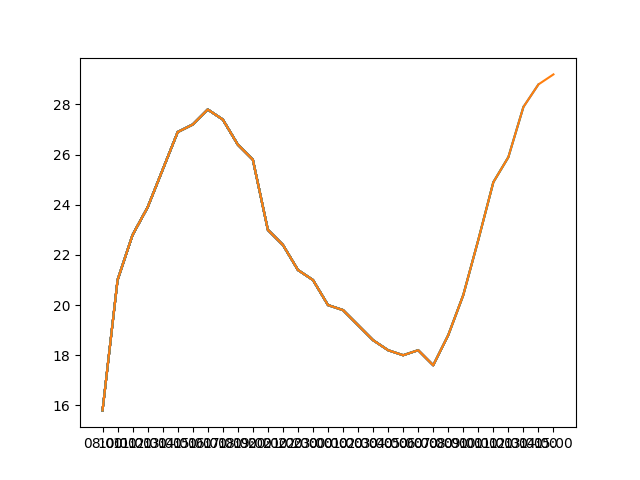
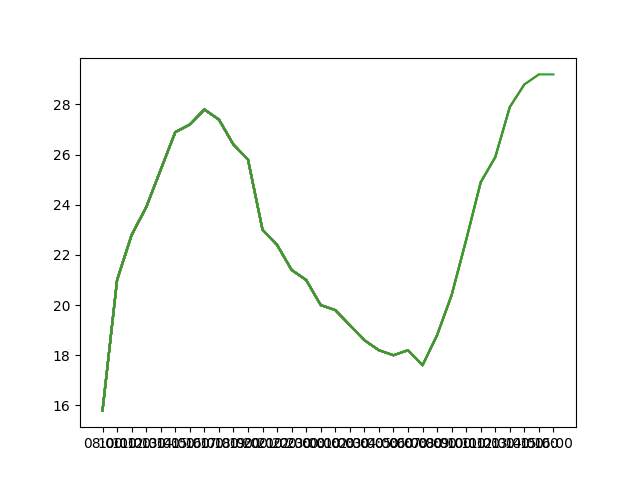
'updated'

diff --git a/index.html b/index.html
@@ -1,2 +1,2 @@
 <img src='graph.png'> 
-<table border="1"><tr><th>data</th><td><table border="1"><thead><tr><th>date</th><th>hour</th><th>weather</th><th>visibility</th><th>temp</th><th>unk</th><th>humidity</th><th>wind</th><th>pressure</th></tr></thead><tbody><tr><td>03-Abril-2021</td><td>08:00</td><td>Algo nublado con banco delgado de niebla</td><td>8 km</td><td>15.8</td><td>No se calcula</td><td>92.0</td><td>Sur  3</td><td>1014.5</td></tr><tr><td>03-Abril-2021</td><td>10:00</td><td>Despejado</td><td>15 km</td><td>21.0</td><td>No se calcula</td><td>71.0</td><td>Noreste  11</td><td>1014.8</td></tr><tr><td>03-Abril-2021</td><td>11:00</td><td>Despejado</td><td>15 km</td><td>22.8</td><td>No se calcula</td><td>66.0</td><td>Este  5</td><td>1014.6</td></tr><tr><td>03-Abril-2021</td><td>12:00</td><td>Algo nublado</td><td>15 km</td><td>23.9</td><td>No se calcula</td><td>61.0</td><td>Noreste  7</td><td>1014.2</td></tr><tr><td>03-Abril-2021</td><td>13:00</td><td>Algo nublado</td><td>15 km</td><td>25.4</td><td>No se calcula</td><td>55.0</td><td>Este  5</td><td>1013.6</td></tr><tr><td>03-Abril-2021</td><td>14:00</td><td>Algo nublado</td><td>15 km</td><td>26.9</td><td>27.3</td><td>49.0</td><td>Noreste  5</td><td>1012.8</td></tr><tr><td>03-Abril-2021</td><td>15:00</td><td>Algo nublado</td><td>15 km</td><td>27.2</td><td>26.4</td><td>42.0</td><td>Noreste  13</td><td>1012.0</td></tr><tr><td>03-Abril-2021</td><td>16:00</td><td>Algo nublado</td><td>15 km</td><td>27.8</td><td>No se calcula</td><td>36.0</td><td>Sudeste  9</td><td>1011.4</td></tr><tr><td>03-Abril-2021</td><td>17:00</td><td>Algo nublado</td><td>15 km</td><td>27.4</td><td>No se calcula</td><td>38.0</td><td>Este  7</td><td>1011.3</td></tr><tr><td>03-Abril-2021</td><td>18:00</td><td>Despejado</td><td>15 km</td><td>26.4</td><td>No se calcula</td><td>39.0</td><td>Sur  9</td><td>1011.3</td></tr><tr><td>03-Abril-2021</td><td>19:00</td><td>Despejado</td><td>15 km</td><td>25.8</td><td>No se calcula</td><td>43.0</td><td>Calma</td><td>1011.4</td></tr><tr><td>03-Abril-2021</td><td>20:00</td><td>Despejado</td><td>15 km</td><td>23.0</td><td>No se calcula</td><td>58.0</td><td>Sur  5</td><td>1011.8</td></tr><tr><td>03-Abril-2021</td><td>21:00</td><td>Algo nublado</td><td>15 km</td><td>22.4</td><td>No se calcula</td><td>62.0</td><td>Sur  7</td><td>1012.2</td></tr><tr><td>03-Abril-2021</td><td>22:00</td><td>Algo nublado</td><td>15 km</td><td>21.4</td><td>No se calcula</td><td>68.0</td><td>Calma</td><td>1012.8</td></tr><tr><td>03-Abril-2021</td><td>23:00</td><td>Despejado</td><td>15 km</td><td>21.0</td><td>No se calcula</td><td>73.0</td><td>Calma</td><td>1012.8</td></tr><tr><td>04-Abril-2021</td><td>00:00</td><td>Despejado</td><td>15 km</td><td>20.0</td><td>No se calcula</td><td>77.0</td><td>Sudeste  5</td><td>1012.6</td></tr><tr><td>04-Abril-2021</td><td>01:00</td><td>Algo nublado</td><td>15 km</td><td>19.8</td><td>No se calcula</td><td>76.0</td><td>Calma</td><td>1012.4</td></tr><tr><td>04-Abril-2021</td><td>02:00</td><td>Despejado</td><td>15 km</td><td>19.2</td><td>No se calcula</td><td>75.0</td><td>Calma</td><td>1012.1</td></tr><tr><td>04-Abril-2021</td><td>03:00</td><td>Algo nublado</td><td>15 km</td><td>18.6</td><td>No se calcula</td><td>82.0</td><td>Noreste  9</td><td>1012.0</td></tr><tr><td>04-Abril-2021</td><td>04:00</td><td>Algo nublado</td><td>15 km</td><td>18.2</td><td>No se calcula</td><td>83.0</td><td>Calma</td><td>1012.0</td></tr><tr><td>04-Abril-2021</td><td>05:00</td><td>Algo nublado</td><td>15 km</td><td>18.0</td><td>No se calcula</td><td>89.0</td><td>Calma</td><td>1011.8</td></tr><tr><td>04-Abril-2021</td><td>06:00</td><td>Algo nublado</td><td>15 km</td><td>18.2</td><td>No se calcula</td><td>91.0</td><td>Calma</td><td>1012.0</td></tr><tr><td>04-Abril-2021</td><td>07:00</td><td>Algo nublado</td><td>15 km</td><td>17.6</td><td>No se calcula</td><td>93.0</td><td>Sudeste  5</td><td>1012.6</td></tr><tr><td>04-Abril-2021</td><td>08:00</td><td>Algo nublado</td><td>15 km</td><td>18.8</td><td>No se calcula</td><td>90.0</td><td>Calma</td><td>1012.8</td></tr><tr><td>04-Abril-2021</td><td>09:00</td><td>Algo nublado</td><td>15 km</td><td>20.4</td><td>No se calcula</td><td>83.0</td><td>Este  9</td><td>1013.2</td></tr><tr><td>04-Abril-2021</td><td>10:00</td><td>Algo nublado</td><td>15 km</td><td>22.6</td><td>No se calcula</td><td>74.0</td><td>Noreste  11</td><td>1013.2</td></tr><tr><td>04-Abril-2021</td><td>11:00</td><td>Algo nublado</td><td>15 km</td><td>24.9</td><td>No se calcula</td><td>66.0</td><td>Noreste  13</td><td>1012.9</td></tr><tr><td>04-Abril-2021</td><td>12:00</td><td>Algo nublado</td><td>15 km</td><td>25.9</td><td>No se calcula</td><td>62.0</td><td>Noreste  13</td><td>1012.5</td></tr><tr><td>04-Abril-2021</td><td>13:00</td><td>Algo nublado</td><td>15 km</td><td>27.9</td><td>28.6</td><td>52.0</td><td>Este  9</td><td>1011.0</td></tr><tr><td>04-Abril-2021</td><td>14:00</td><td>Algo nublado</td><td>15 km</td><td>28.8</td><td>28.5</td><td>45.0</td><td>Noreste  13</td><td>1009.8</td></tr><tr><td>04-Abril-2021</td><td>15:00</td><td>Algo nublado</td><td>15 km</td><td>29.2</td><td>28.9</td><td>44.0</td><td>Noreste  14</td><td>1009.3</td></tr></tbody></table></td></tr></table>
+<table border="1"><tr><th>data</th><td><table border="1"><thead><tr><th>date</th><th>hour</th><th>weather</th><th>visibility</th><th>temp</th><th>unk</th><th>humidity</th><th>wind</th><th>pressure</th></tr></thead><tbody><tr><td>03-Abril-2021</td><td>08:00</td><td>Algo nublado con banco delgado de niebla</td><td>8 km</td><td>15.8</td><td>No se calcula</td><td>92.0</td><td>Sur  3</td><td>1014.5</td></tr><tr><td>03-Abril-2021</td><td>10:00</td><td>Despejado</td><td>15 km</td><td>21.0</td><td>No se calcula</td><td>71.0</td><td>Noreste  11</td><td>1014.8</td></tr><tr><td>03-Abril-2021</td><td>11:00</td><td>Despejado</td><td>15 km</td><td>22.8</td><td>No se calcula</td><td>66.0</td><td>Este  5</td><td>1014.6</td></tr><tr><td>03-Abril-2021</td><td>12:00</td><td>Algo nublado</td><td>15 km</td><td>23.9</td><td>No se calcula</td><td>61.0</td><td>Noreste  7</td><td>1014.2</td></tr><tr><td>03-Abril-2021</td><td>13:00</td><td>Algo nublado</td><td>15 km</td><td>25.4</td><td>No se calcula</td><td>55.0</td><td>Este  5</td><td>1013.6</td></tr><tr><td>03-Abril-2021</td><td>14:00</td><td>Algo nublado</td><td>15 km</td><td>26.9</td><td>27.3</td><td>49.0</td><td>Noreste  5</td><td>1012.8</td></tr><tr><td>03-Abril-2021</td><td>15:00</td><td>Algo nublado</td><td>15 km</td><td>27.2</td><td>26.4</td><td>42.0</td><td>Noreste  13</td><td>1012.0</td></tr><tr><td>03-Abril-2021</td><td>16:00</td><td>Algo nublado</td><td>15 km</td><td>27.8</td><td>No se calcula</td><td>36.0</td><td>Sudeste  9</td><td>1011.4</td></tr><tr><td>03-Abril-2021</td><td>17:00</td><td>Algo nublado</td><td>15 km</td><td>27.4</td><td>No se calcula</td><td>38.0</td><td>Este  7</td><td>1011.3</td></tr><tr><td>03-Abril-2021</td><td>18:00</td><td>Despejado</td><td>15 km</td><td>26.4</td><td>No se calcula</td><td>39.0</td><td>Sur  9</td><td>1011.3</td></tr><tr><td>03-Abril-2021</td><td>19:00</td><td>Despejado</td><td>15 km</td><td>25.8</td><td>No se calcula</td><td>43.0</td><td>Calma</td><td>1011.4</td></tr><tr><td>03-Abril-2021</td><td>20:00</td><td>Despejado</td><td>15 km</td><td>23.0</td><td>No se calcula</td><td>58.0</td><td>Sur  5</td><td>1011.8</td></tr><tr><td>03-Abril-2021</td><td>21:00</td><td>Algo nublado</td><td>15 km</td><td>22.4</td><td>No se calcula</td><td>62.0</td><td>Sur  7</td><td>1012.2</td></tr><tr><td>03-Abril-2021</td><td>22:00</td><td>Algo nublado</td><td>15 km</td><td>21.4</td><td>No se calcula</td><td>68.0</td><td>Calma</td><td>1012.8</td></tr><tr><td>03-Abril-2021</td><td>23:00</td><td>Despejado</td><td>15 km</td><td>21.0</td><td>No se calcula</td><td>73.0</td><td>Calma</td><td>1012.8</td></tr><tr><td>04-Abril-2021</td><td>00:00</td><td>Despejado</td><td>15 km</td><td>20.0</td><td>No se calcula</td><td>77.0</td><td>Sudeste  5</td><td>1012.6</td></tr><tr><td>04-Abril-2021</td><td>01:00</td><td>Algo nublado</td><td>15 km</td><td>19.8</td><td>No se calcula</td><td>76.0</td><td>Calma</td><td>1012.4</td></tr><tr><td>04-Abril-2021</td><td>02:00</td><td>Despejado</td><td>15 km</td><td>19.2</td><td>No se calcula</td><td>75.0</td><td>Calma</td><td>1012.1</td></tr><tr><td>04-Abril-2021</td><td>03:00</td><td>Algo nublado</td><td>15 km</td><td>18.6</td><td>No se calcula</td><td>82.0</td><td>Noreste  9</td><td>1012.0</td></tr><tr><td>04-Abril-2021</td><td>04:00</td><td>Algo nublado</td><td>15 km</td><td>18.2</td><td>No se calcula</td><td>83.0</td><td>Calma</td><td>1012.0</td></tr><tr><td>04-Abril-2021</td><td>05:00</td><td>Algo nublado</td><td>15 km</td><td>18.0</td><td>No se calcula</td><td>89.0</td><td>Calma</td><td>1011.8</td></tr><tr><td>04-Abril-2021</td><td>06:00</td><td>Algo nublado</td><td>15 km</td><td>18.2</td><td>No se calcula</td><td>91.0</td><td>Calma</td><td>1012.0</td></tr><tr><td>04-Abril-2021</td><td>07:00</td><td>Algo nublado</td><td>15 km</td><td>17.6</td><td>No se calcula</td><td>93.0</td><td>Sudeste  5</td><td>1012.6</td></tr><tr><td>04-Abril-2021</td><td>08:00</td><td>Algo nublado</td><td>15 km</td><td>18.8</td><td>No se calcula</td><td>90.0</td><td>Calma</td><td>1012.8</td></tr><tr><td>04-Abril-2021</td><td>09:00</td><td>Algo nublado</td><td>15 km</td><td>20.4</td><td>No se calcula</td><td>83.0</td><td>Este  9</td><td>1013.2</td></tr><tr><td>04-Abril-2021</td><td>10:00</td><td>Algo nublado</td><td>15 km</td><td>22.6</td><td>No se calcula</td><td>74.0</td><td>Noreste  11</td><td>1013.2</td></tr><tr><td>04-Abril-2021</td><td>11:00</td><td>Algo nublado</td><td>15 km</td><td>24.9</td><td>No se calcula</td><td>66.0</td><td>Noreste  13</td><td>1012.9</td></tr><tr><td>04-Abril-2021</td><td>12:00</td><td>Algo nublado</td><td>15 km</td><td>25.9</td><td>No se calcula</td><td>62.0</td><td>Noreste  13</td><td>1012.5</td></tr><tr><td>04-Abril-2021</td><td>13:00</td><td>Algo nublado</td><td>15 km</td><td>27.9</td><td>28.6</td><td>52.0</td><td>Este  9</td><td>1011.0</td></tr><tr><td>04-Abril-2021</td><td>14:00</td><td>Algo nublado</td><td>15 km</td><td>28.8</td><td>28.5</td><td>45.0</td><td>Noreste  13</td><td>1009.8</td></tr><tr><td>04-Abril-2021</td><td>15:00</td><td>Algo nublado</td><td>15 km</td><td>29.2</td><td>28.9</td><td>44.0</td><td>Noreste  14</td><td>1009.3</td></tr><tr><td>04-Abril-2021</td><td>16:00</td><td>Algo nublado</td><td>15 km</td><td>29.2</td><td>29.1</td><td>46.0</td><td>Noreste  13</td><td>1008.8</td></tr></tbody></table></td></tr></table>
